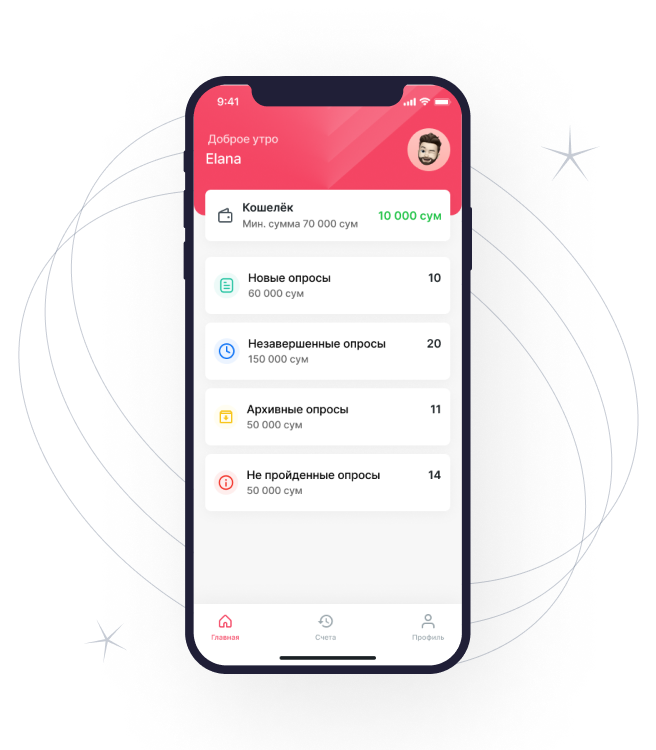
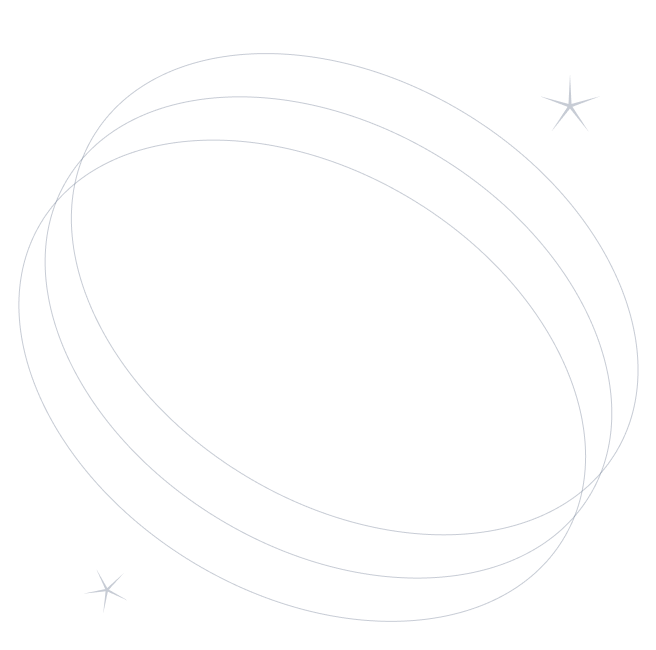
for pc finished

diff --git a/src/modules/Header/Header.tsx b/src/modules/Header/Header.tsx
@@ -97,7 +97,18 @@ const Header = () => {
           <Link sx={{p:0}} href="/" className={cls.logo}>
             <Logo />
           </Link>
-          <Box sx={{ overflow:'hidden',position:'relative', display: 'flex', padding:'4px', borderRadius:'28px', height:'56px', backgroundColor:'background.default' }}>
+          <Box className={cls.menu} sx={{ 
+            overflow:'hidden',
+            position:'relative', 
+            display: 'flex', 
+            padding:'4px', 
+            borderRadius:'28px', 
+            height:'56px', 
+            backgroundColor:'background.default',
+            '@media (max-width: 768px)': {
+              display:'none'
+            }
+          }}>
             <span className={cls.activeBg}></span>
             {sections.map((section, index) => (
               <MenuItem key={index} className={`${cls.menuItem} ${selectedSection === section.id ? cls.active : ''}`}>
@@ -111,7 +122,7 @@ const Header = () => {
             <Button variant='l' sx={{background:'#fff', color:'#222A39', '&:hover':{background:'#F4F5F9', outline:'none'}}} className={cls.langBtn} aria-describedby={id} type="button" onClick={handleClick}>
               <LanguageIcon />
             </Button>
-            <Popper sx={{zIndex:10, }} placement={'bottom-start'} id={id} open={open} anchorEl={anchorEl}>
+            <Popper sx={{zIndex:100, }} placement={'bottom-start'} id={id} open={open} anchorEl={anchorEl}>
               <Box sx={{width:220, marginTop:'10px', border:'1px solid rgba(68, 83, 113, 0.15)', borderRadius:'20px',p: '8px 0', bgcolor: 'background.default' }}>
                 <MenuItem sx={{padding:'12px 32px'}} className={cls.langItem} onClick={handleClick}><Uzb /> O’zbekcha</MenuItem>
                 <MenuItem sx={{padding:'12px 32px'}} className={cls.langItem} onClick={handleClick}><Ru />Русский</MenuItem>
@@ -120,7 +131,13 @@ const Header = () => {
               </Box>
             </Popper>
             </Box>
-            <Button variant="l" color="primary" endIcon={<ArrowForwardIcon/>}>Войти </Button>
+            <Button xs={{
+              // display:'none',
+              '@media (max-width: 768px)': {
+                display:'none'
+              }
+            
+            }} variant="l" endIcon={<ArrowForwardIcon/>}>Войти </Button>
           </Box>
         </Box>
       </Container>

diff --git a/src/components/EyeLand/Main.tsx b/src/components/EyeLand/Main.tsx
@@ -7,6 +7,7 @@ import DoubleApp from "src/assets/Imgs/iPhone.png";
 import { useEffect, useRef } from "react";
 import gsap from 'gsap';
 import { ScrollTrigger } from 'gsap/ScrollTrigger';
+console.log(ScrollTrigger.matchMedia);
 
 const MainLand = () => {
   
@@ -14,21 +15,30 @@ const MainLand = () => {
   useEffect(() => {
     gsap.registerPlugin(ScrollTrigger);
     console.log(imgRef.current);
+    gsap.from(imgRef.current, {
+      x: 0,
+      rotate: 10,
+      scale: 1,
+    })
     gsap.to(imgRef.current, {
-      x: -400,
-      y: 1000,
-      rotation: 360,
+      x: -794,
+      rotate: 0,
+      scale: 1.1,
       scrollTrigger: {
         trigger: imgRef.current,
-        start: "top 10px",
-        end: "500px 10px",
+        start: "top-=135 10px",
+        end: "721px 10px",
         scrub: true,
-        // pin: true,
-        markers: true,
+        pin: true,
+        // markers: true,
         id: "scrub"
       }
     });
-
+    return () => {
+      
+      ScrollTrigger.getAll().forEach(trigger => trigger.kill());
+    };
+    
   }, [])
   
     return (
@@ -44,7 +54,7 @@ const MainLand = () => {
             maxWidth:'650px',
             position:'relative',
             zIndex:'-1'
-          }}>
+          }} >
           <Box sx={{display:'flex',flexDirection:'column', gap:'24px'}}>
             <Typography variant="h1" component="h1">Ваше мнение - ваш заработок с нами!</Typography>
             <Typography variant="text">Присоединяйтесь к нашему онлайн-сообществу и начните зарабатывать уже сегодня!</Typography>
@@ -64,12 +74,13 @@ const MainLand = () => {
           </Button>
           </Box>
           <Box className={cls.img}>
+            <img src={DoubleApp1} alt="" />
             <img src={DoubleApp} alt="" />
           </Box>
+          <div ref={imgRef} className={cls.moveImg}>
+            <img src={DoubleApp1} alt="" />
+          </div>
         </Container>
-        <div ref={imgRef} className={cls.moveImg}>
-          <img src={DoubleApp1} alt="" />
-        </div>
       </section>
     )
 }

diff --git a/src/components/EyeLand/style.module.scss b/src/components/EyeLand/style.module.scss
@@ -1,12 +1,19 @@
 .main {
-
-  // overflow-y: hidden;
+  width: 100%;
+  // overflow-x: hidden;
+  overflow-y: visible;
   position: relative;
 }
 
 .body {
   position: relative;
   z-index: 1;
+
+  @media (max-width: 768px) {
+    display: flex;
+    flex-direction: column;
+    gap: 40px;
+  }
 
 
   &::before {
@@ -20,6 +27,8 @@
   }
 }
 
+.box {}
+
 .img {
   margin-top: 150px;
   margin-right: 35px;
@@ -27,7 +36,6 @@
   height: 611.585px;
   overflow: visible;
   position: relative;
-  z-index: 1;
   display: flex;
 
   &::before {
@@ -49,22 +57,30 @@
     position: absolute;
     top: 15px;
 
-
-    right: 50px;
-    width: 277.713px;
-    height: 570px;
-    transform: rotate(10deg);
-    // box-shadow: 20.386px 32.618px 122.318px 0px rgba(0, 0, 0, 0.10);
-    filter: drop-shadow(20.386px 32.618px 122.318px rgba(0, 0, 0, 0.10));
-    z-index: 1;
-
     &:nth-child(1) {
-      right: 35px;
+      right: 50px;
       width: 277.713px;
       height: 570px;
+      transform: rotate(10deg);
+      // box-shadow: 20.386px 32.618px 122.318px 0px rgba(0, 0, 0, 0.10);
+      filter: drop-shadow(20.386px 32.618px 122.318px rgba(0, 0, 0, 0.10));
+      z-index: 1;
+      display: none;
+
+      @media (max-width: 768px) {
+        display: block;
+      }
     }
 
-    &:nth-child(2) {}
+    &:nth-child(2) {
+      left: 50px;
+      width: 277.713px;
+      height: 570px;
+      transform: rotate(-10deg);
+      // box-shadow: 20.386px 32.618px 122.318px 0px rgba(0, 0, 0, 0.10);
+      filter: drop-shadow(20.386px 32.618px 122.318px rgba(0, 0, 0, 0.10));
+      z-index: 2000;
+    }
   }
 }
 
@@ -73,9 +89,9 @@
   position: absolute;
   width: 277.713px;
   height: 570px;
-  z-index: 100;
+  z-index: 1000;
   top: 165px;
-  left: 786px;
+  left: 1010px;
 
   img {
     height: 100%;
@@ -84,5 +100,11 @@
     // box-shadow: 20.386px 32.618px 122.318px 0px rgba(0, 0, 0, 0.10);
     filter: drop-shadow(20.386px 32.618px 122.318px rgba(0, 0, 0, 0.10));
     z-index: 2;
+  }
+
+  display: block;
+
+  @media (max-width: 768px) {
+    display: none;
   }
 }

diff --git a/src/theme/index.ts b/src/theme/index.ts
@@ -39,6 +39,12 @@ const getDesignTokens = (mode:PaletteMode) => ({
 
 function getTheme(mode: PaletteMode): ThemeOptions {
   return {
+    breakpoints: {
+      values: {
+        df:1440,
+        mb:768,
+      },
+    },
     ...getDesignTokens(mode),
     components: {
       MuiMenuItem: {
@@ -203,9 +209,15 @@ function getTheme(mode: PaletteMode): ThemeOptions {
         defaultProps: {
           disableRipple: true,
         },
-        variants:[
+        variants: [
           {
-            props: {variant: 'l', color: 'primary'},
+            props: {
+              variant: 'l', 
+              color: 'primary',
+              // [theme.breakpoints.up('df')]: {
+              //   padding: '12px 20px',
+              // },
+          },
             style: {
               borderRadius: 14,
               fontSize: 14,
@@ -274,6 +286,12 @@ declare module '@mui/material/Button' {
 declare module '@mui/material/Typography' {
   interface TypographyPropsVariantOverride {
     text: true;
+  }
+}
+declare module '@mui/material/styles' {
+  interface BreakpointOverrides {
+    df: true;
+    mb: true; // adds the `mobile` breakpoint
   }
 }
 

diff --git a/src/modules/Header/style.module.scss b/src/modules/Header/style.module.scss
@@ -1,8 +1,16 @@
 .header {
   position: fixed;
   width: 100%;
-  z-index: 100;
+  z-index: 200;
   //    background: #fff;
+}
+
+.menu {
+  display: block;
+
+  @media (max-width: 768px) {
+    display: none;
+  }
 }
 
 .activeBg {
@@ -48,6 +56,8 @@
   border: none;
   padding: 18px 24px;
   cursor: pointer;
+  position: relative;
+  z-index: 200;
 }
 
 .langItem {

diff --git a/vite.config.ts b/vite.config.ts
@@ -5,6 +5,10 @@ import react from '@vitejs/plugin-react'
 export default defineConfig({
   plugins: [react()],
   build: { outDir: "build", },
+  server: {
+    port: 3000,
+    host: '0.0.0.0' // Replace with your desired IP address
+  },
   resolve: {
     alias: {
       src: "/src",

diff --git a/src/routes/Main.tsx b/src/routes/Main.tsx
@@ -10,11 +10,11 @@ export const Main = () => {
   return (
     <main className={cls.main}>
       <MainLand />
-      <About />
+      {/* <About />
       <Process />
       <Benefits />
       <Faqs />
-      <AppView />
+      <AppView /> */}
     </main>
   )
 };

diff --git a/src/components/AboutProject/style.module.scss b/src/components/AboutProject/style.module.scss
@@ -1,6 +1,6 @@
 .opportunities {
-  position: relative;
-  z-index: 10;
+  // position: relative;
+  // z-index: 1;
 }
 
 .body {
@@ -14,6 +14,8 @@
 .boxImg {
 
   // flex: 0 0 50%;
+  position: relative;
+  z-index: -1;
 
   img {
     // height: 100%;

diff --git a/src/App.tsx b/src/App.tsx
@@ -26,7 +26,7 @@ function App() {
           <CssBaseline />
           <Header />
           <RouterProvider router={root} />
-          <Footer />
+          {/* <Footer /> */}
         </ThemeProvider>
       </div>
       </ReactLenis>

diff --git a/src/components/CustomeButton/Button.tsx b/src/components/CustomeButton/Button.tsx
@@ -1,0 +1,8 @@
+import { Button } from "@mui/material"
+
+const CustButton = () => {
+  return (
+    <Button variant="contained" color="primary">label</Button>
+  )
+}
+export default CustButton

diff --git a/src/scss/index.scss b/src/scss/index.scss
@@ -1,7 +1,10 @@
 @import './locomotiv.scss';
+
 body {
   margin: 0;
   padding: 0;
+  overflow-x: hidden;
+  
 }
 
 @media (prefers-color-scheme: light) {
